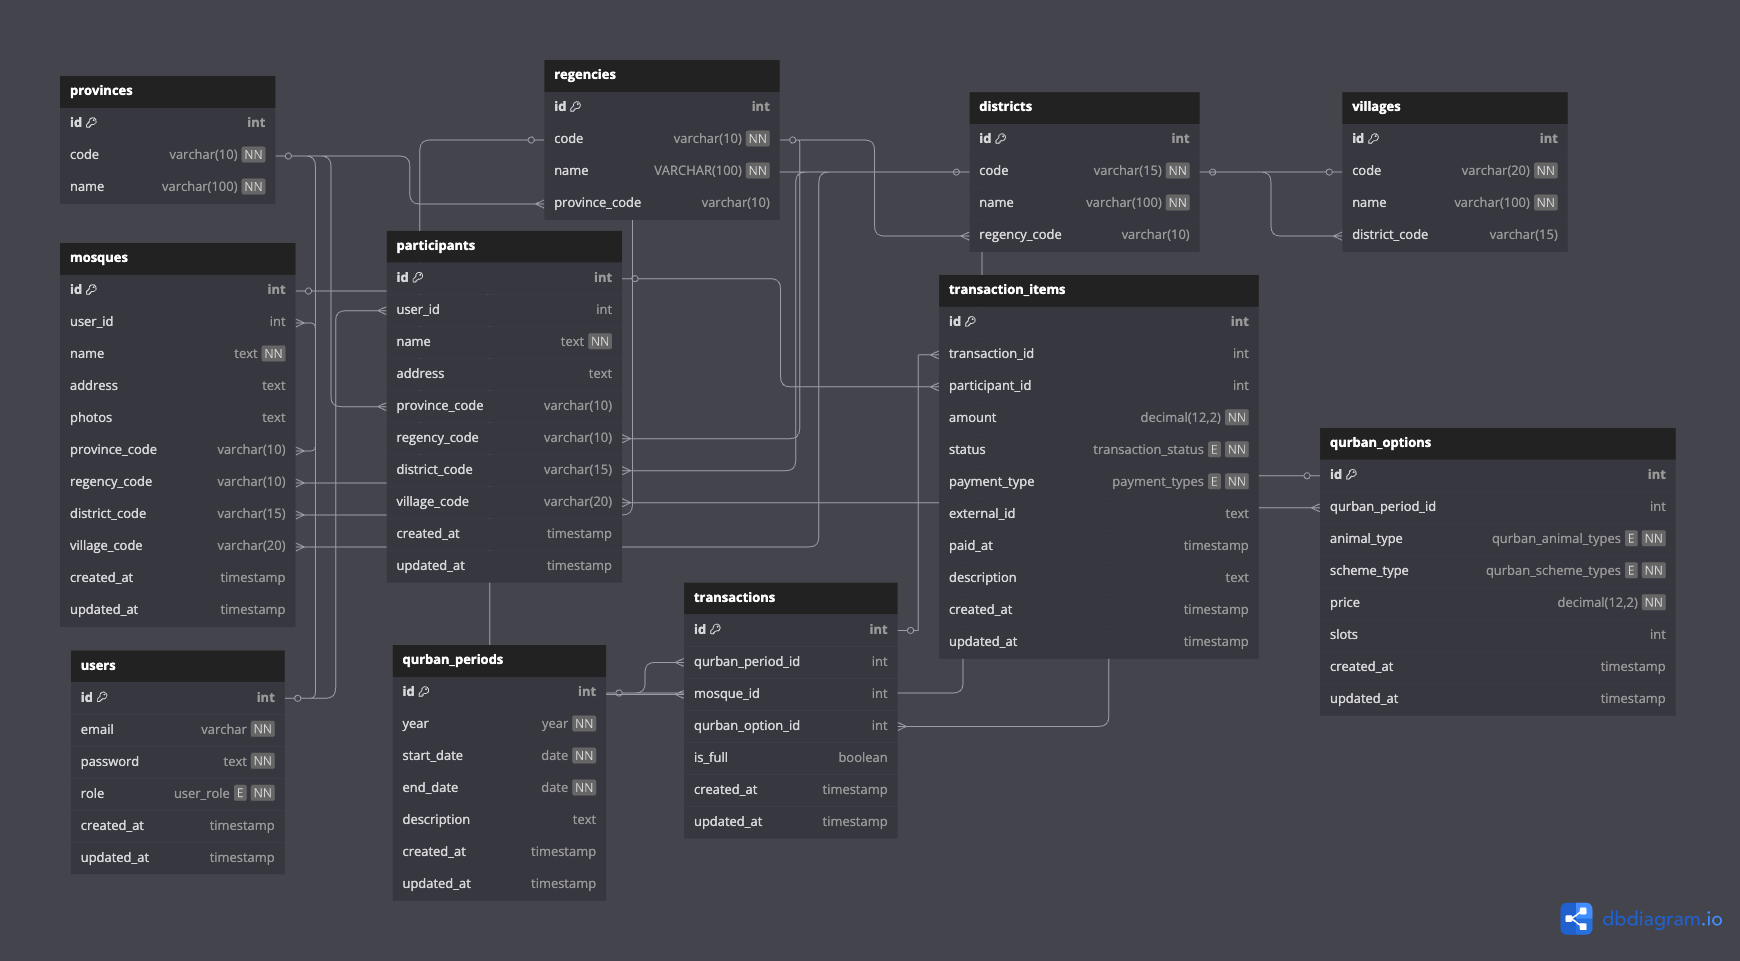
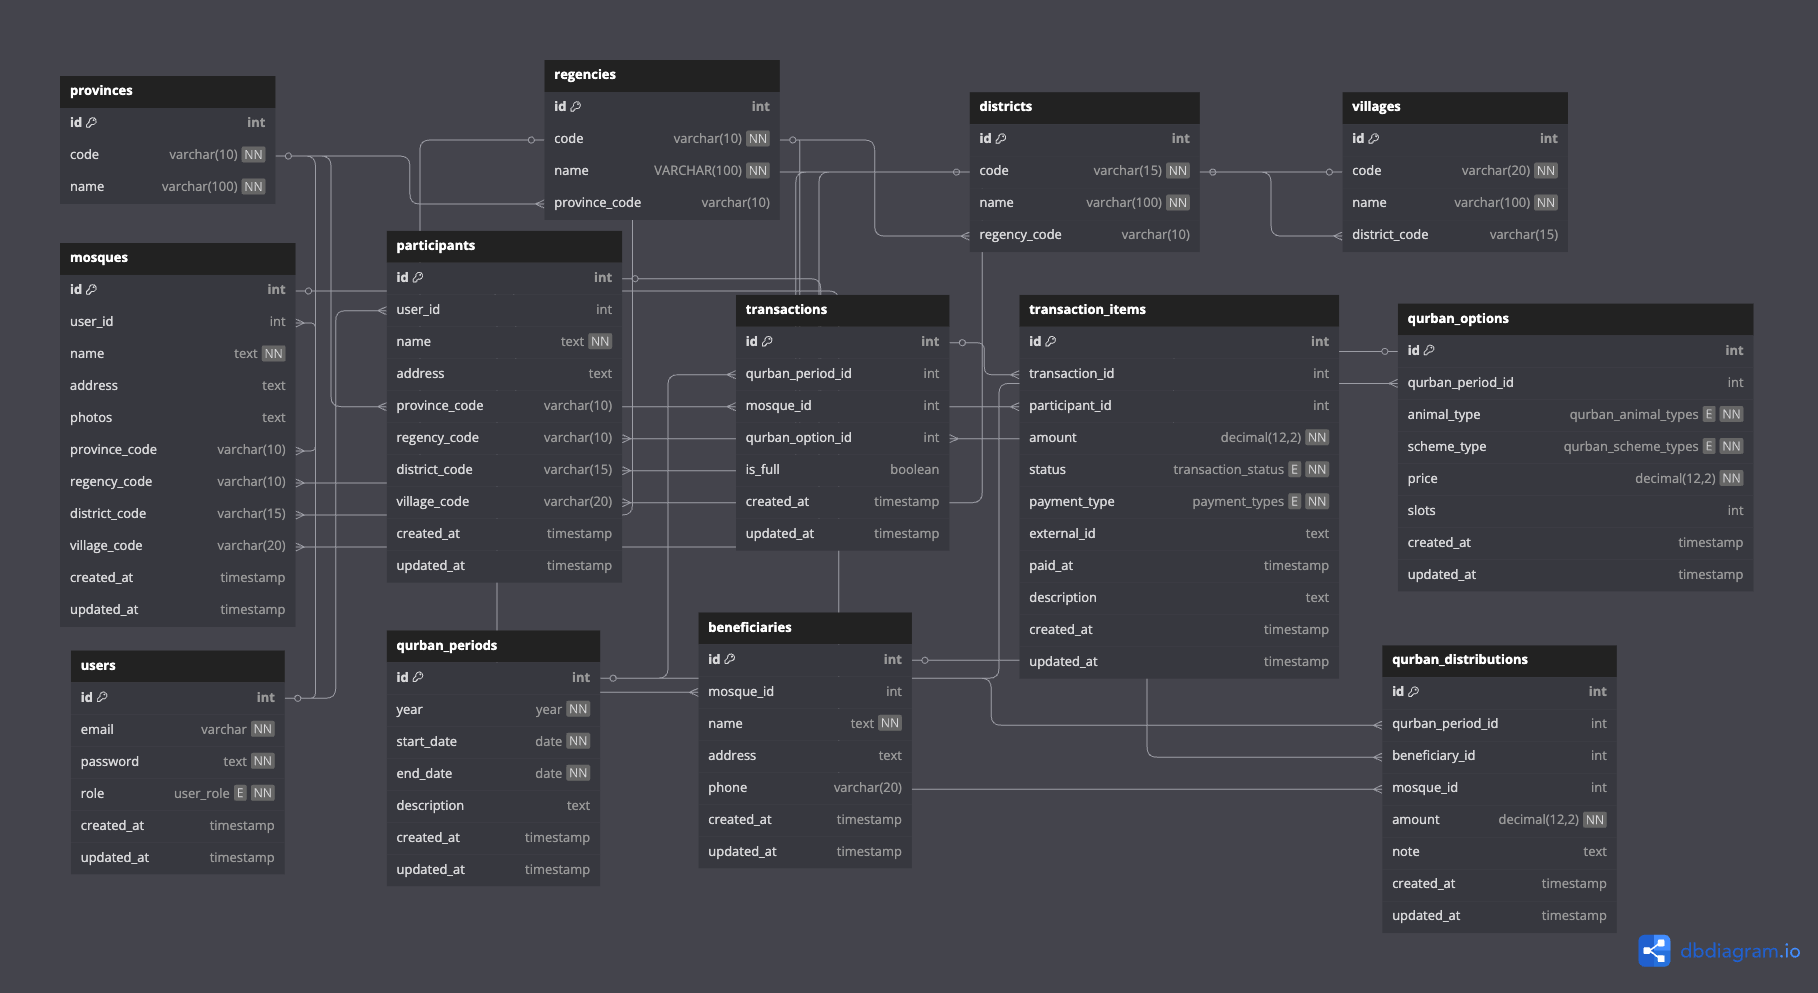
chore: adding new model

diff --git a/model/qurban_distribution.go b/model/qurban_distribution.go
@@ -1,0 +1,22 @@
+package model
+
+import "time"
+
+type QurbanDistribution struct {
+	ID             uint      `json:"id" gorm:"primaryKey"`
+	QurbanPeriodID uint      `json:"qurban_period_id"`
+	BeneficiaryID  uint      `json:"beneficiary_id"`
+	MosqueID       uint      `json:"mosque_id"`
+	Amount         float64   `json:"amount"`
+	Note           *string   `json:"note"`
+	CreatedAt      time.Time `json:"created_at"`
+	UpdatedAt      time.Time `json:"updated_at"`
+
+	QurbanPeriod *QurbanPeriod `json:"qurban_period" gorm:"foreignKey:QurbanPeriodID"`
+	Beneficiary  *Beneficiary  `json:"beneficiary" gorm:"foreignKey:BeneficiaryID"`
+	Mosque       *Mosque       `json:"mosque" gorm:"foreignKey:MosqueID"`
+}
+
+func (QurbanDistribution) TableName() string {
+	return "qurban_distributions"
+}

diff --git a/model/beneficiary.go b/model/beneficiary.go
@@ -1,0 +1,19 @@
+package model
+
+import "time"
+
+type Beneficiary struct {
+	ID        uint      `json:"id" gorm:"primaryKey"`
+	MosqueID  uint      `json:"mosque_id"`
+	Name      string    `json:"name"`
+	Address   *string   `json:"address"`
+	Phone     *string   `json:"phone"`
+	CreatedAt time.Time `json:"created_at"`
+	UpdatedAt time.Time `json:"updated_at"`
+
+	Mosque *Mosque `json:"mosque" gorm:"foreignKey:MosqueID"`
+}
+
+func (Beneficiary) TableName() string {
+	return "beneficiaries"
+}
